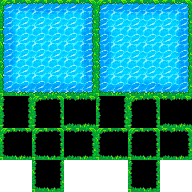
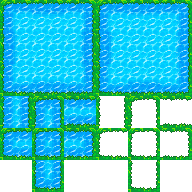
Progress on mapgen

Changed region(s): [[0.0, 0.5, 1.0, 1.0]]

diff --git a/src/Tile.cpp b/src/Tile.cpp
@@ -78,29 +78,20 @@ void Path::setSprite(Spritesheet const& spriteSheet, vector<bool> bin)
 {
     unsigned xOffset {};
     unsigned yOffset {};
-/*
-    if (binaryNeighbor == 4 || binaryNeighbor == 6 || binaryNeighbor == 8 ||
-        binaryNeighbor == 10 || binaryNeighbor == 12)
-        xOffset = 0;
-    else if (binaryNeighbor == 15)
-        xOffset = 1;
-    else if (binaryNeighbor == 1 || binaryNeighbor == 3 ||
-             binaryNeighbor == 5 || binaryNeighbor == 9)
-        xOffset = 2;
 
-    if (binaryNeighbor == 9 || binaryNeighbor == 10)
-        yOffset = 0;
-    else if (binaryNeighbor == 15)
-        yOffset = 1;
-    else if (binaryNeighbor == 5 || binaryNeighbor == 6)
-        yOffset = 2;
-    else if (binaryNeighbor == 1 || binaryNeighbor == 3 || binaryNeighbor == 4 ||
-             binaryNeighbor == 8 || binaryNeighbor == 12)
-        yOffset = 3;
+    if (!bin[1] && !bin[3] && bin[4] && bin[6])             { yOffset = 0; xOffset = 0; }
+    else if (!bin[1] && bin[3] && !bin[4] && bin[6])        { yOffset = 0; xOffset = 2; }
+    else if (bin[1] && bin[3] && bin[4] && bin[6])          { yOffset = 1; xOffset = 1; }
+    else if (bin[1] && !bin[3] && bin[4] && !bin[6])        { yOffset = 2; xOffset = 0; }
+    else if (bin[1] && bin[3] && !bin[4] && !bin[6])        { yOffset = 2; xOffset = 2; }
+    else if ((bin[1] && !bin[3] && !bin[4] && bin[6]) ||
+             (bin[1] && !bin[3] && !bin[4] && !bin[6]) ||
+             (!bin[1] && !bin[3] && !bin[4] && bin[6]))     { yOffset = 3; xOffset = 0; }
+    else if ((!bin[1] && bin[3] && bin[4] && !bin[6]) ||
+             (!bin[1] && !bin[3] && bin[4] && !bin[6]) ||
+             (!bin[1] && bin[3] && !bin[4] && !bin[6]))     { yOffset = 3; xOffset = 2; }
 
     tileSprite = spriteSheet.get_sprite(5 + yOffset, 3 + xOffset);
-*/
-    tileSprite = spriteSheet.get_sprite(6, 4);
 
     tileSprite.setPosition (mapBorderOffset + tileWidth / 2 + tileWidth * xTile,
                             mapBorderOffset + tileWidth / 2 + tileWidth * yTile);
@@ -111,7 +102,6 @@ Grass::Grass(int x, int y, char type)
 : Tile{x, y, type}
 {
     placeable = true;
-    //setSprite(tileSheet, 1, 1);
 }
 
 void Grass::setSprite(Spritesheet const& spriteSheet, vector<bool> bin)
@@ -125,10 +115,7 @@ void Grass::setSprite(Spritesheet const& spriteSheet, vector<bool> bin)
 
 Water::Water(int x, int y, char type)
 : Tile{x, y, type}
-{
-    placeable = true;
-    //setSprite(tileSheet, 1, 1);
-}
+{}
 
 void Water::setSprite(Spritesheet const& spriteSheet, vector<bool> bin)
 {
@@ -143,6 +130,13 @@ void Water::setSprite(Spritesheet const& spriteSheet, vector<bool> bin)
     else if (bin[1] && !bin[3] && bin[4] && !bin[6])    { yOffset = 2; xOffset = 0; }
     else if (bin[1] && bin[3] && bin[4] && !bin[6])     { yOffset = 2; xOffset = 1; }
     else if (bin[1] && bin[3] && !bin[4] && !bin[6])    { yOffset = 2; xOffset = 2; }
+    else if (bin[1] && !bin[3] && !bin[4] && bin[6])    { yOffset = 3; xOffset = 0; }
+    else if (bin[1] && bin[3] && bin[4] && !bin[6])     { yOffset = 3; xOffset = 1; }
+    else if (!bin[1] && bin[3] && bin[4] && !bin[6])    { yOffset = 3; xOffset = 2; }
+    else if (!bin[1] && !bin[3] && bin[4] && !bin[6])   { yOffset = 4; xOffset = 0; }
+    else if (!bin[1] && !bin[3] && !bin[4] && !bin[6])  { yOffset = 4; xOffset = 1; }
+    else if (!bin[1] && bin[3] && !bin[4] && !bin[6])   { yOffset = 4; xOffset = 2; }
+    else if (bin[1] && !bin[3] && !bin[4] && !bin[6])   { yOffset = 5; xOffset = 1; }
     else                                                { yOffset = 1; xOffset = 1; }
 
     tileSprite = tileSheet.get_sprite(yOffset, xOffset);

diff --git a/src/Map.cpp b/src/Map.cpp
@@ -159,6 +159,7 @@ void Map::setTileSprites()
 
             getTile(x, y)->setSprite(mapSpriteSheet, xOffset, yOffset);
             */
+           
             if (getTile(x, y)->getType() == pathChar)
                 getTile(x, y)->setSprite(mapSpriteSheet, getSpriteNeighbors(x, y));
             else
